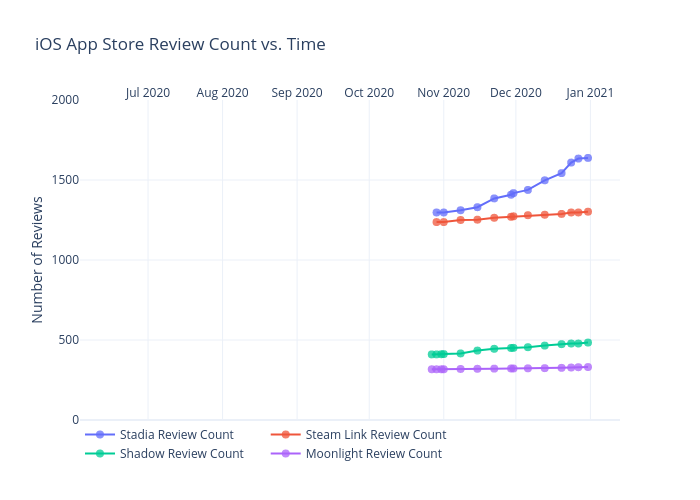
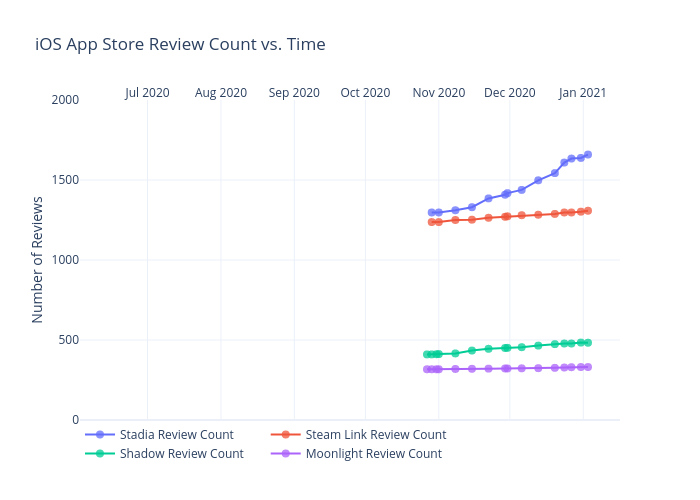
Add files via upload

diff --git a/iosappstore/figure.js b/iosappstore/figure.js
@@ -54,7 +54,8 @@ var figure = {
                 "1543",
                 "1609",
                 "1634",
-                "1638"
+                "1638",
+                "1659"
             ],
             "marker": {
                 "size": 8,
@@ -118,7 +119,8 @@ var figure = {
                 "1288",
                 "1297",
                 "1297",
-                "1302"
+                "1302",
+                "1308"
             ],
             "marker": {
                 "size": 8,
@@ -182,7 +184,8 @@ var figure = {
                 "474",
                 "478",
                 "478",
-                "484"
+                "484",
+                "483"
             ],
             "marker": {
                 "size": 8,
@@ -246,6 +249,7 @@ var figure = {
                 "326",
                 "328",
                 "330",
+                "331",
                 "331"
             ],
             "marker": {
@@ -265,8 +269,8 @@ var figure = {
             "side": "top",
             "type": "date",
             "range": [
-                "2020-06-03 18:11:10.8075",
-                "2021-01-12 05:48:49.1925"
+                "2020-06-03 13:44:04.6076",
+                "2021-01-15 10:15:55.3924"
             ],
             "title": {
                 "text": ""
